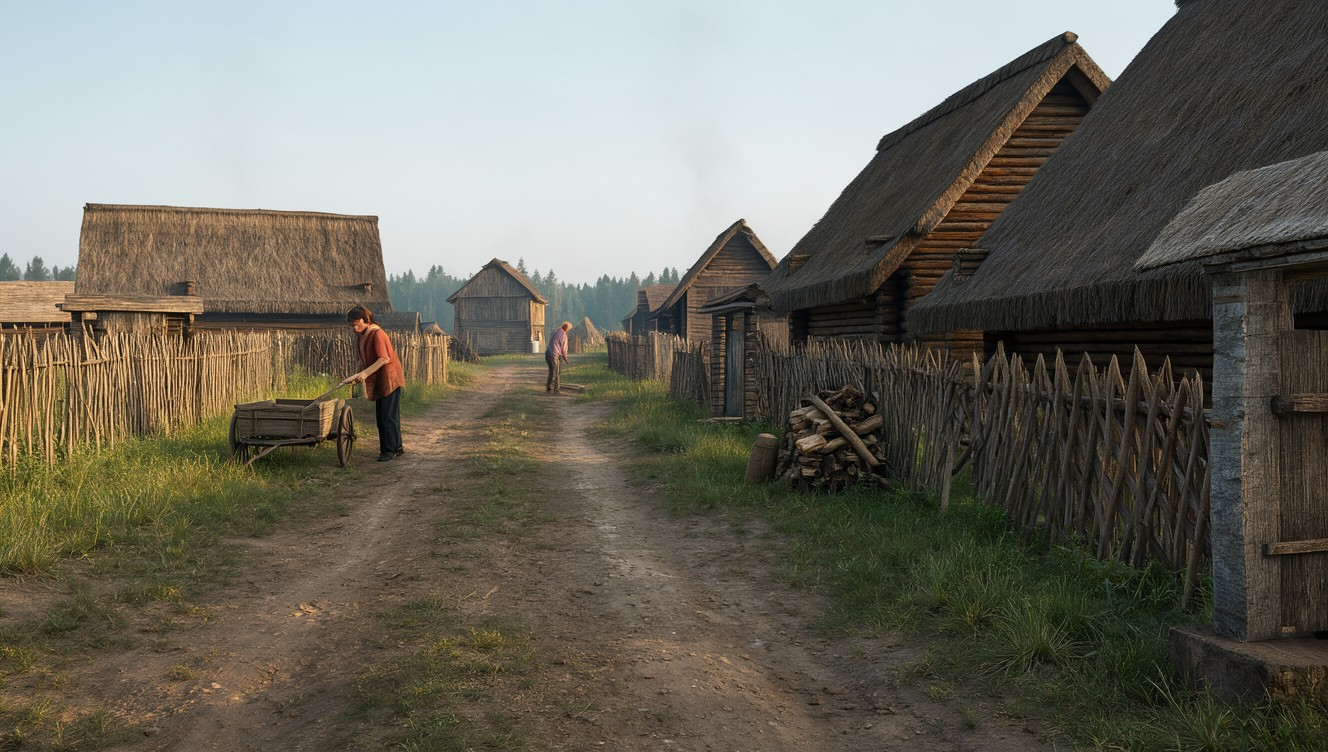
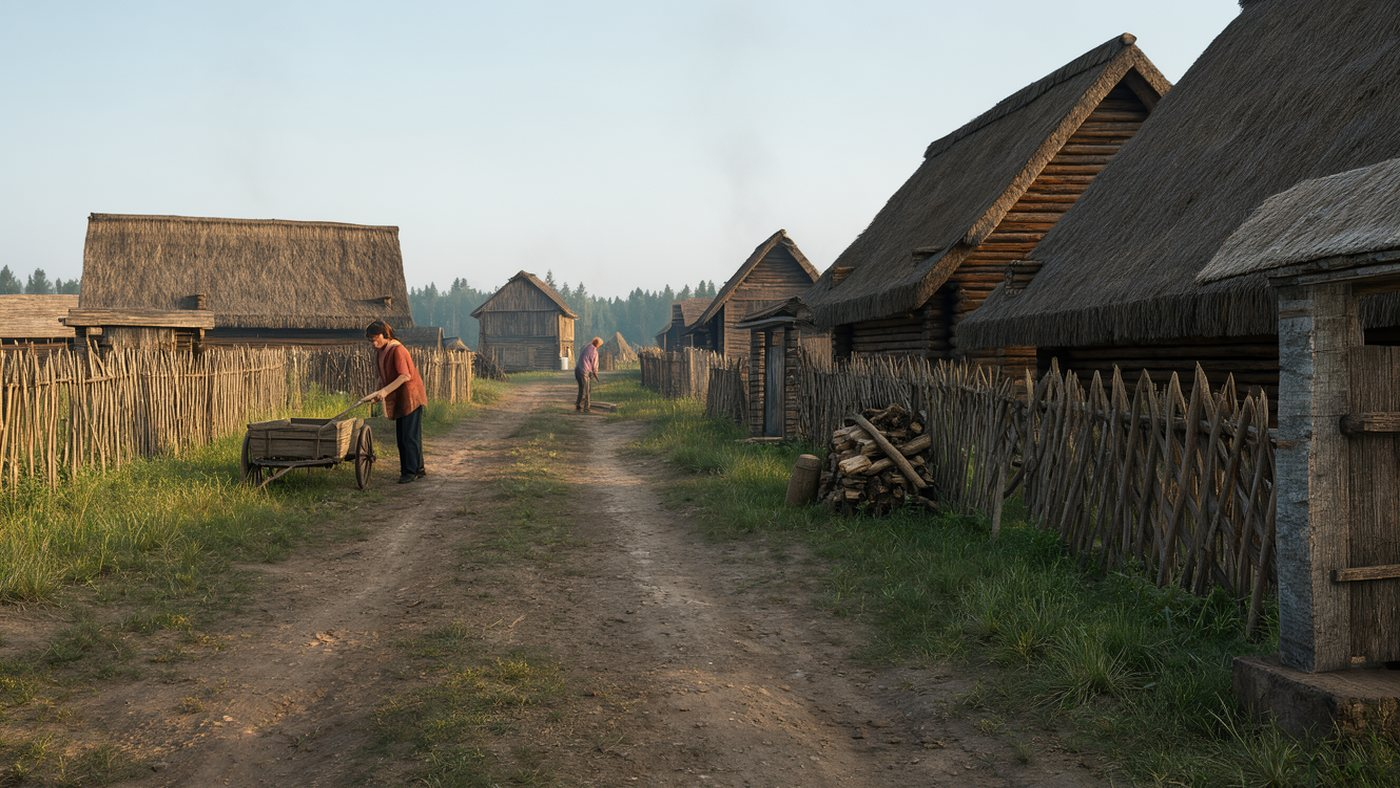
Gomiy: FLUX gallery redrawn for all 13 frames (FLUX 3 Klein base, 10.11.2026), FLUX button enabled for the crafts and haven frames

Changed region(s): [[0.0309, 0.4282, 0.1852, 0.5505], [0.0617, 0.5505, 0.0926, 0.5811]]

diff --git a/index.html b/index.html
@@ -778,9 +778,9 @@ document.getElementById("b-info").addEventListener("click", (e) => { const p = d
 // ---------- gallery (Blender render vs photoreal re-draw of the same render)
 const SHOTS = [
   ["aerial_se", "С востока, из-за Сожа", "Детинец над рекой у устья Гомеюка с плинфяным храмом, за ним окольный город с торгом, южный посад вдоль Сожа, северный — за Киевским спуском."],
-  ["aerial_nw", "С полей, с северо-запада", "Поля на плато, полевая дорога с путниками, северный посад, окольный город с валом вдоль Киевского спуска, детинец над Сожем."],
+  ["aerial_nw", "С полей, с северо-запада", "Поля на плато, полевая дорога с путниками, северный посад, окольный город с валом вдоль Киевского спуска, детинец над Сожем.", "На этом кадре FLUX не показал Сож за городом и убрал северный посад."],
   ["west_gate", "Речицкие ворота", "Западные ворота окольного города у вершины Гомеюка (место Речицкой брамы XVI–XVIII вв., у нынешнего облисполкома) и мост через ров."],
-  ["street", "Главная улица", "Улица окольного города: срубы под соломой, плетни, в конце башни детинца."],
+  ["street", "Главная улица", "Улица окольного города: срубы под соломой, плетни, в конце башни детинца.", "На этом кадре FLUX заменил частокол вдоль улицы плетнём и дорисовал тележку, поленницу и людей."],
   ["detinets", "Ворота детинца", "Мост через ров (около 22 м) к надвратной башне на севере, к торгу; городни с башнями с напольной стороны, над обрывом частокол, за стеной княжий двор."],
   ["landing", "Перевоз", "Устье Киевского спуска: мостки, паром-плот и несколько долблёнок. По планам XVIII–XIX вв. здесь переправа; основная пристань теперь в устье Гомеюка."],
   ["podol", "Подол и пристань", "Устье Гомеюка: низкая терраса под мысом, мостки на сваях, насады с мачтами и долблёнки, коморы-склады, лавки, тюки, бочки и южные амфоры. Слева выше — кожевенники у ручья.", null, true],
@@ -794,10 +794,10 @@ const SHOTS = [
 let gIdx = 0, gKind = "render";
 const gImg = document.getElementById("g-img"), gCap = document.getElementById("g-cap"), gTitle = document.getElementById("g-title"), thumbs = document.getElementById("thumbs");
 function gShow(i) { gIdx = i; const s = SHOTS[i];
-  const only = !!s[4]; for (const id of ["flux", "photo"]) document.getElementById("g-" + id).disabled = only;
-  if (only && gKind !== "render") { gKind = "render"; for (const id of ["flux", "photo", "render"]) document.getElementById("g-" + id).setAttribute("aria-pressed", id === "render"); }
+  const only = !!s[4]; document.getElementById("g-photo").disabled = only;      // Gemini frames exist only for the six older views
+  if (only && gKind === "photo") { gKind = "render"; for (const id of ["flux", "photo", "render"]) document.getElementById("g-" + id).setAttribute("aria-pressed", id === "render"); }
   gImg.src = `gallery/${gKind}_${s[0]}.jpg`; gImg.alt = s[1]; gTitle.textContent = s[1];
-  const NOTE = { flux: "Перерисовка FLUX 3 Klein (базовая модель, 08.11.2026) по текущему рендеру. Фактуры, растительность и люди дорисованы моделью; расстановка сверена с рендером, но сама картинка не является источником.",
+  const NOTE = { flux: "Перерисовка локальной моделью FLUX 3 Klein (базовая, 10.11.2026) по текущему рендеру. Раскладка построек, валов и берега взята из рендера; фактуры, растительность, люди, лодки и мелкая утварь дорисованы моделью и источником не являются.",
     photo: "Перерисовка Gemini — по ПРЕДЫДУЩЕЙ версии модели (до 07.11.2026). Модель свободнее меняет детали.",
     render: "Рендер Blender текущей модели (07.11.2026): рельеф FABDEM/GLO-30/GEDTM30, план по книгам Макушникова и плану 1838 г.; дома, дворы, мастерские и пристань — по данным раскопок и аналогам, расстановка — гипотеза." };
   gCap.innerHTML = `${s[2]}<small>${NOTE[gKind]}${gKind === "flux" && s[3] ? " " + s[3] : ""}</small>`;
